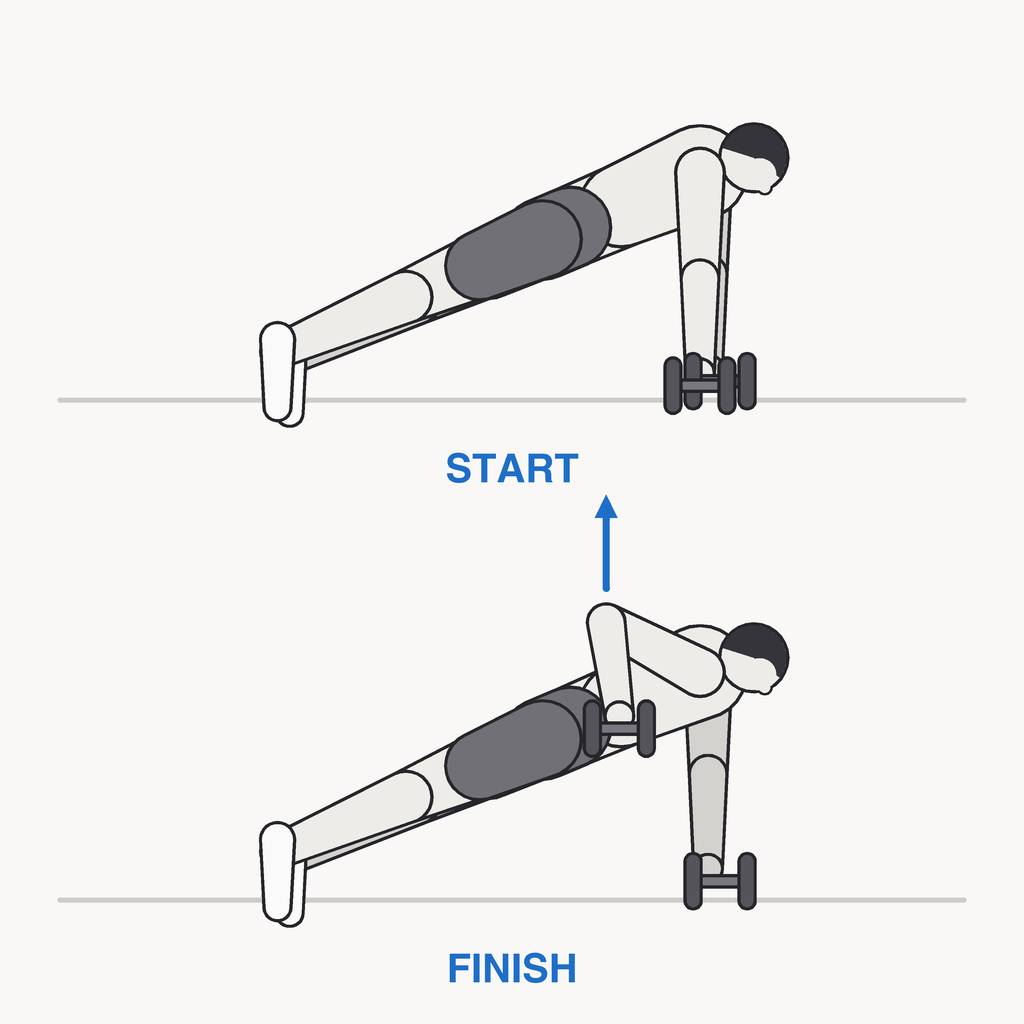
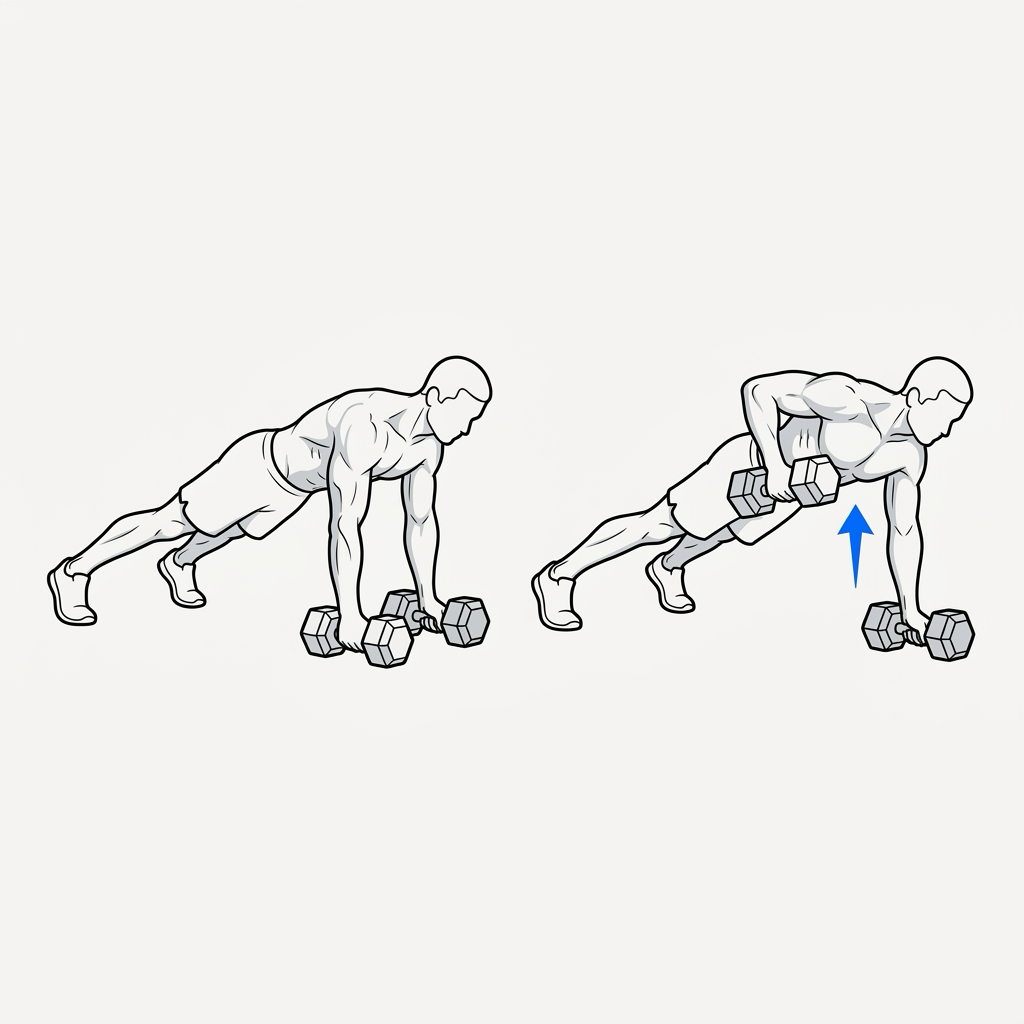
feat(images): publish renegade row form-guide illustration (rev 18)

Changed region(s): [[0.0312, 0.0938, 0.9688, 0.9688], [0.1875, 0.4375, 0.2188, 0.4688]]

diff --git a/FORM_GUIDE_IMAGE_TODO.md b/FORM_GUIDE_IMAGE_TODO.md
@@ -19,7 +19,7 @@ _Last generated 2026-10-01 — 21 pending, 33 replaced._
 
 | | Exercise | Current image | Size |
 | --- | --- | --- | --- |
-| [ ] | Renegade Row | [`form.back-renegade-row.png`](remote/images/exercises/form.back-renegade-row.png) | 100 KB |
+| [ ] | Renegade Row | [`form.back-renegade-row.png`](remote/images/exercises/form.back-renegade-row.png) | 307 KB |
 | [ ] | Rope Climb | [`form.back-rope-climb.png`](remote/images/exercises/form.back-rope-climb.png) | 118 KB |
 | [ ] | Smith Machine Row | [`form.back-smith-machine-row.png`](remote/images/exercises/form.back-smith-machine-row.png) | 97 KB |
 | [ ] | Smith Machine Shrug | [`form.back-smith-machine-shrug.png`](remote/images/exercises/form.back-smith-machine-shrug.png) | 94 KB |
